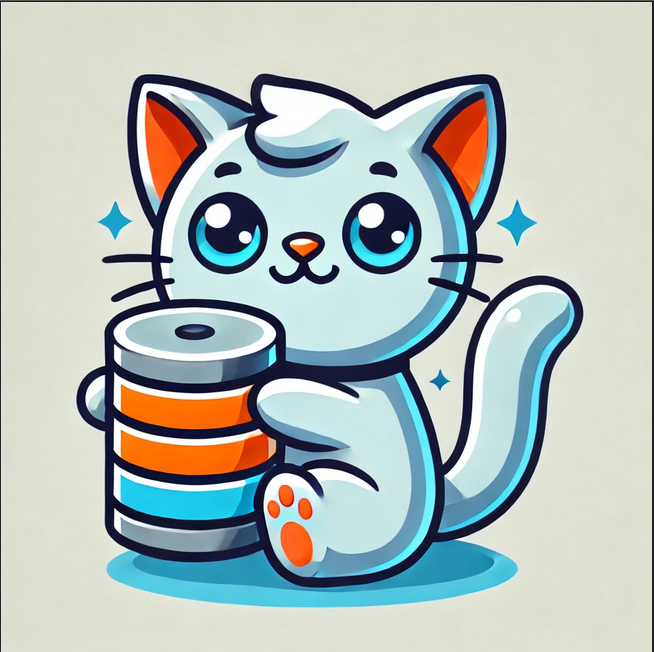
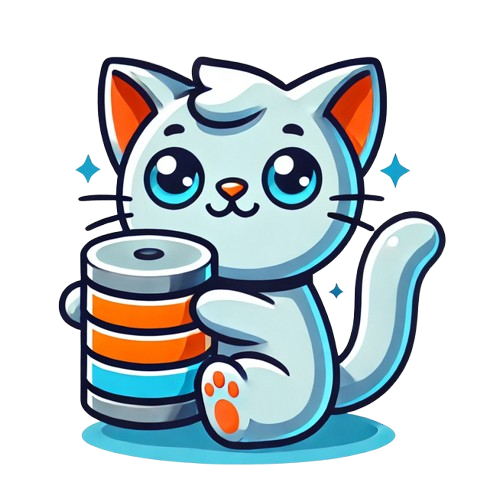
styles updated

diff --git a/ref/RU.md b/ref/RU.md
@@ -4,11 +4,9 @@
 
 Этот проект реализует сервер базы данных типа Redis на языке C, поддерживающий базовые операции, такие как создание, вставка, выбор, обновление и удаление. Сервер использует древовидную структуру данных для хранения пар ключ-значение и обрабатывает клиентские соединения с помощью сокетов.
 
-Этот проект основан на уроке, который ведет доктор Бирч (**[Youtube](https://youtube.com/@dr-Jonas-Birch)** | **[Веб-сайт](doctorbirch.com)**)
+_Этот проект основан на уроке, который ведет доктор Бирч (**[Youtube](https://youtube.com/@dr-Jonas-Birch)** | **[Веб-сайт](doctorbirch.com)**)_
 
-<p align="center">
-![Мяу](DB.png "Мяу идет к тебе"){width=200 height=200px}
-</p>
+![Мяу](DB.png "Мяу идет к тебе"){width="200" height="200" style="display: block; margin: 0 auto"}
 
 ## Функции
 - **Create**: Добавьте новую пару ключ-значение в базу данных.

diff --git a/README.md b/README.md
@@ -4,11 +4,9 @@
 
 This project implements a Redis-like database server in C, supporting basic operations such as create, insert, select, update, and delete. The server uses a tree-based data structure to store key-value pairs and handles client connections using sockets.
 
-This project is based on a tutorial taught by Dr. Birch (**[Youtube](https://youtube.com/@dr-Jonas-Birch)** | **[Website](doctorbirch.com)**)
+_This project is based on a tutorial taught by Dr. Birch (**[Youtube](https://youtube.com/@dr-Jonas-Birch)** | **[Website](doctorbirch.com)**)_
 
-<p align="center">
-![Meow](ref/DB.png "Meow is coming to you"){width=200 height=200px}
-</p>
+![Meow](ref/DB.png "Meow is coming to you"){width="200" height="200" style="display: block; margin: 0 auto"}
 
 ## Features
 - **Create**: Add a new key-value pair to the database.
